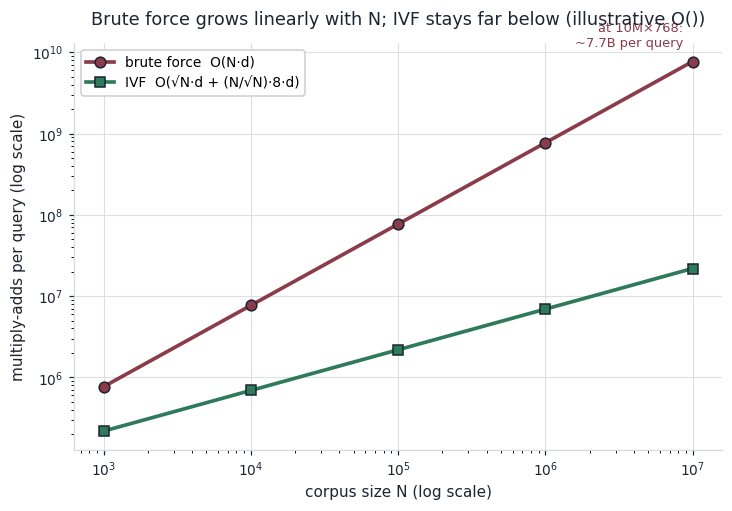
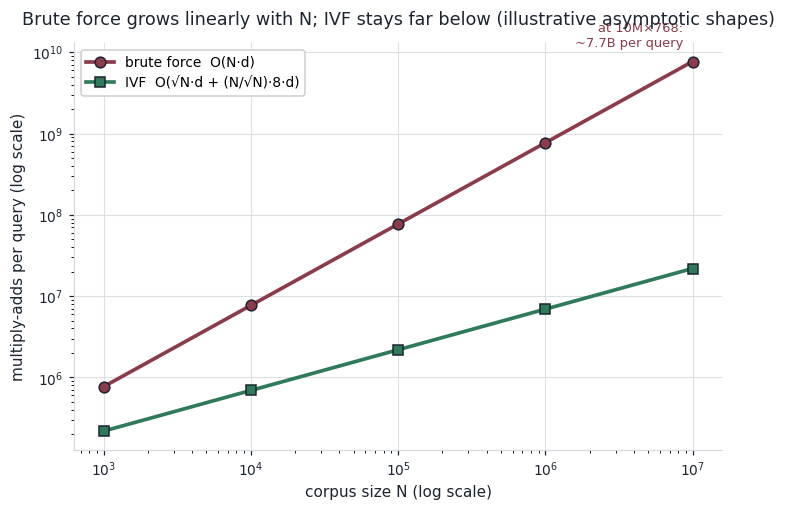
fix(11-rag): 04 polish — aggregate graph stats in notebook (orphan-number gate), figure title, captions, GIF palette

diff --git a/11. RAG_and_LLM_Applications/04-Vector-Databases-and-ANN-Indexes/code/make_animation_04.py b/11. RAG_and_LLM_Applications/04-Vector-Databases-and-ANN-Indexes/code/make_animation_04.py
@@ -61,7 +61,10 @@ def build_animation() -> None:
     true_nn = brute_force_topk(query, corpus, k=10)
     cell_dist = ((index.centroids - query) ** 2).sum(axis=1)
     cell_order = np.argsort(cell_dist)  # cells in probe order (nearest first)
-    cmap = plt.cm.hsv(np.linspace(0, 1, n_cells))  # distinct hues for many (30) cells
+    # muted qualitative palette consistent with the chapter (tab20b/tab20c, like the static Voronoi
+    # figure) — desaturated toward the chapter's muted tone rather than a clashing HSV rainbow
+    base = np.vstack([plt.cm.tab20b(np.linspace(0, 1, 20)), plt.cm.tab20c(np.linspace(0, 1, 20))])
+    cmap = base[:n_cells]
 
     plan = list(NPROBE_FRAMES) + [NPROBE_FRAMES[-1]] * HOLD_FRAMES
 

diff --git a/11. RAG_and_LLM_Applications/04-Vector-Databases-and-ANN-Indexes/code/make_figures_04.py b/11. RAG_and_LLM_Applications/04-Vector-Databases-and-ANN-Indexes/code/make_figures_04.py
@@ -191,7 +191,7 @@ def fig_bruteforce_growth() -> None:
     ax.set_ylabel("multiply-adds per query (log scale)")
     ax.annotate("at 10M×768:\n~7.7B per query", (1e7, 1e7 * dim), color=RED, fontsize=8.5,
                 ha="right", va="bottom", xytext=(-6, 8), textcoords="offset points")
-    ax.set_title("Brute force grows linearly with N; IVF stays far below (illustrative O())",
+    ax.set_title("Brute force grows linearly with N; IVF stays far below (illustrative asymptotic shapes)",
                  fontsize=11.5, pad=12)
     ax.legend(loc="upper left", framealpha=0.95, fontsize=9)
     _save(fig, "rag04_bruteforce_growth.png")

diff --git a/11. RAG_and_LLM_Applications/04-Vector-Databases-and-ANN-Indexes/04-Vector-Databases-and-ANN-Indexes.md b/11. RAG_and_LLM_Applications/04-Vector-Databases-and-ANN-Indexes/04-Vector-Databases-and-ANN-Indexes.md
@@ -41,7 +41,7 @@ $$
 
 At a few billion operations per query, you're at tens-to-hundreds of milliseconds *per query on one core* — before you've served a second user. The cost grows **linearly with $N$**: double the corpus, double every query. That linear wall is the whole motivation for ANN.
 
-![Brute-force cost (red) grows linearly with corpus size N — at 10M×768 it's ~7.7 billion multiply-adds per query — while an IVF index (green) that scans only √N centroids plus a handful of cells stays orders of magnitude below it. Both axes log scale; the O() curves are illustrative of the asymptotic shapes. Generated by `code/make_figures_04.py`.](../images/rag04_bruteforce_growth.png)
+![Brute-force cost (red) grows linearly with corpus size N — at 10M×768 it's ~7.7 billion multiply-adds per query — while an IVF index (green) that scans √N centroids *plus a few cells' worth of vectors* (the two terms of its cost, both shown in the legend) stays orders of magnitude below it. Both axes log scale; the curves are illustrative of the asymptotic shapes. Generated by `code/make_figures_04.py`.](../images/rag04_bruteforce_growth.png)
 
 You could throw hardware at it (more cores, GPUs — what FAISS does), but that only buys a constant factor; the $O(N)$ growth still wins eventually. The real fix is algorithmic: **stop comparing the query to vectors that obviously can't be its neighbours.**
 
@@ -208,7 +208,7 @@ node, hops = greedy_graph_search(corpus[:2000], graph, queries[3], entry=0)
 print(f"reached a local optimum in {hops} hops")
 ```
 
-On our data, greedy descent takes a mean of **1.9 hops** downhill (each hop strictly closer to the query) and lands at **median rank 326 of 2,000** (top **16.4%**) — the *mechanic* clearly works (it walks toward the query), but a single-layer graph **stalls in local optima**, which is *exactly* the problem HNSW's multi-layer long-range links solve. Don't read this as "graphs are bad" — read it as "this is why HNSW has a hierarchy."
+On our data, greedy descent takes a mean of **1.9 hops** downhill (each hop strictly closer to the query) and lands at **median rank 326 of 2,000** (top **16.4%**) — the *mechanic* clearly works (it walks toward the query), but **top 16.4% means it overshot the true nearest neighbour by ~325 ranks** — useless for retrieval, where you need the actual top-$k$ (roughly **top-0.5%**). A single-layer graph **stalls in local optima**; closing that gap from top-16% to top-0.5% is *exactly* what HNSW's multi-layer long-range links deliver. Don't read this as "graphs are bad" — read it as "this is why HNSW has a hierarchy."
 
 ![Greedy graph search on our data: the squared distance from the current node to the query falls at every hop (917 → 843 → 736) until no neighbour is closer — a local optimum. This downhill walk is the heart of graph ANN; HNSW's layers make it reliably reach the *global* neighbourhood. Generated by `code/make_figures_04.py`.](../images/rag04_greedy_descent.png)
 